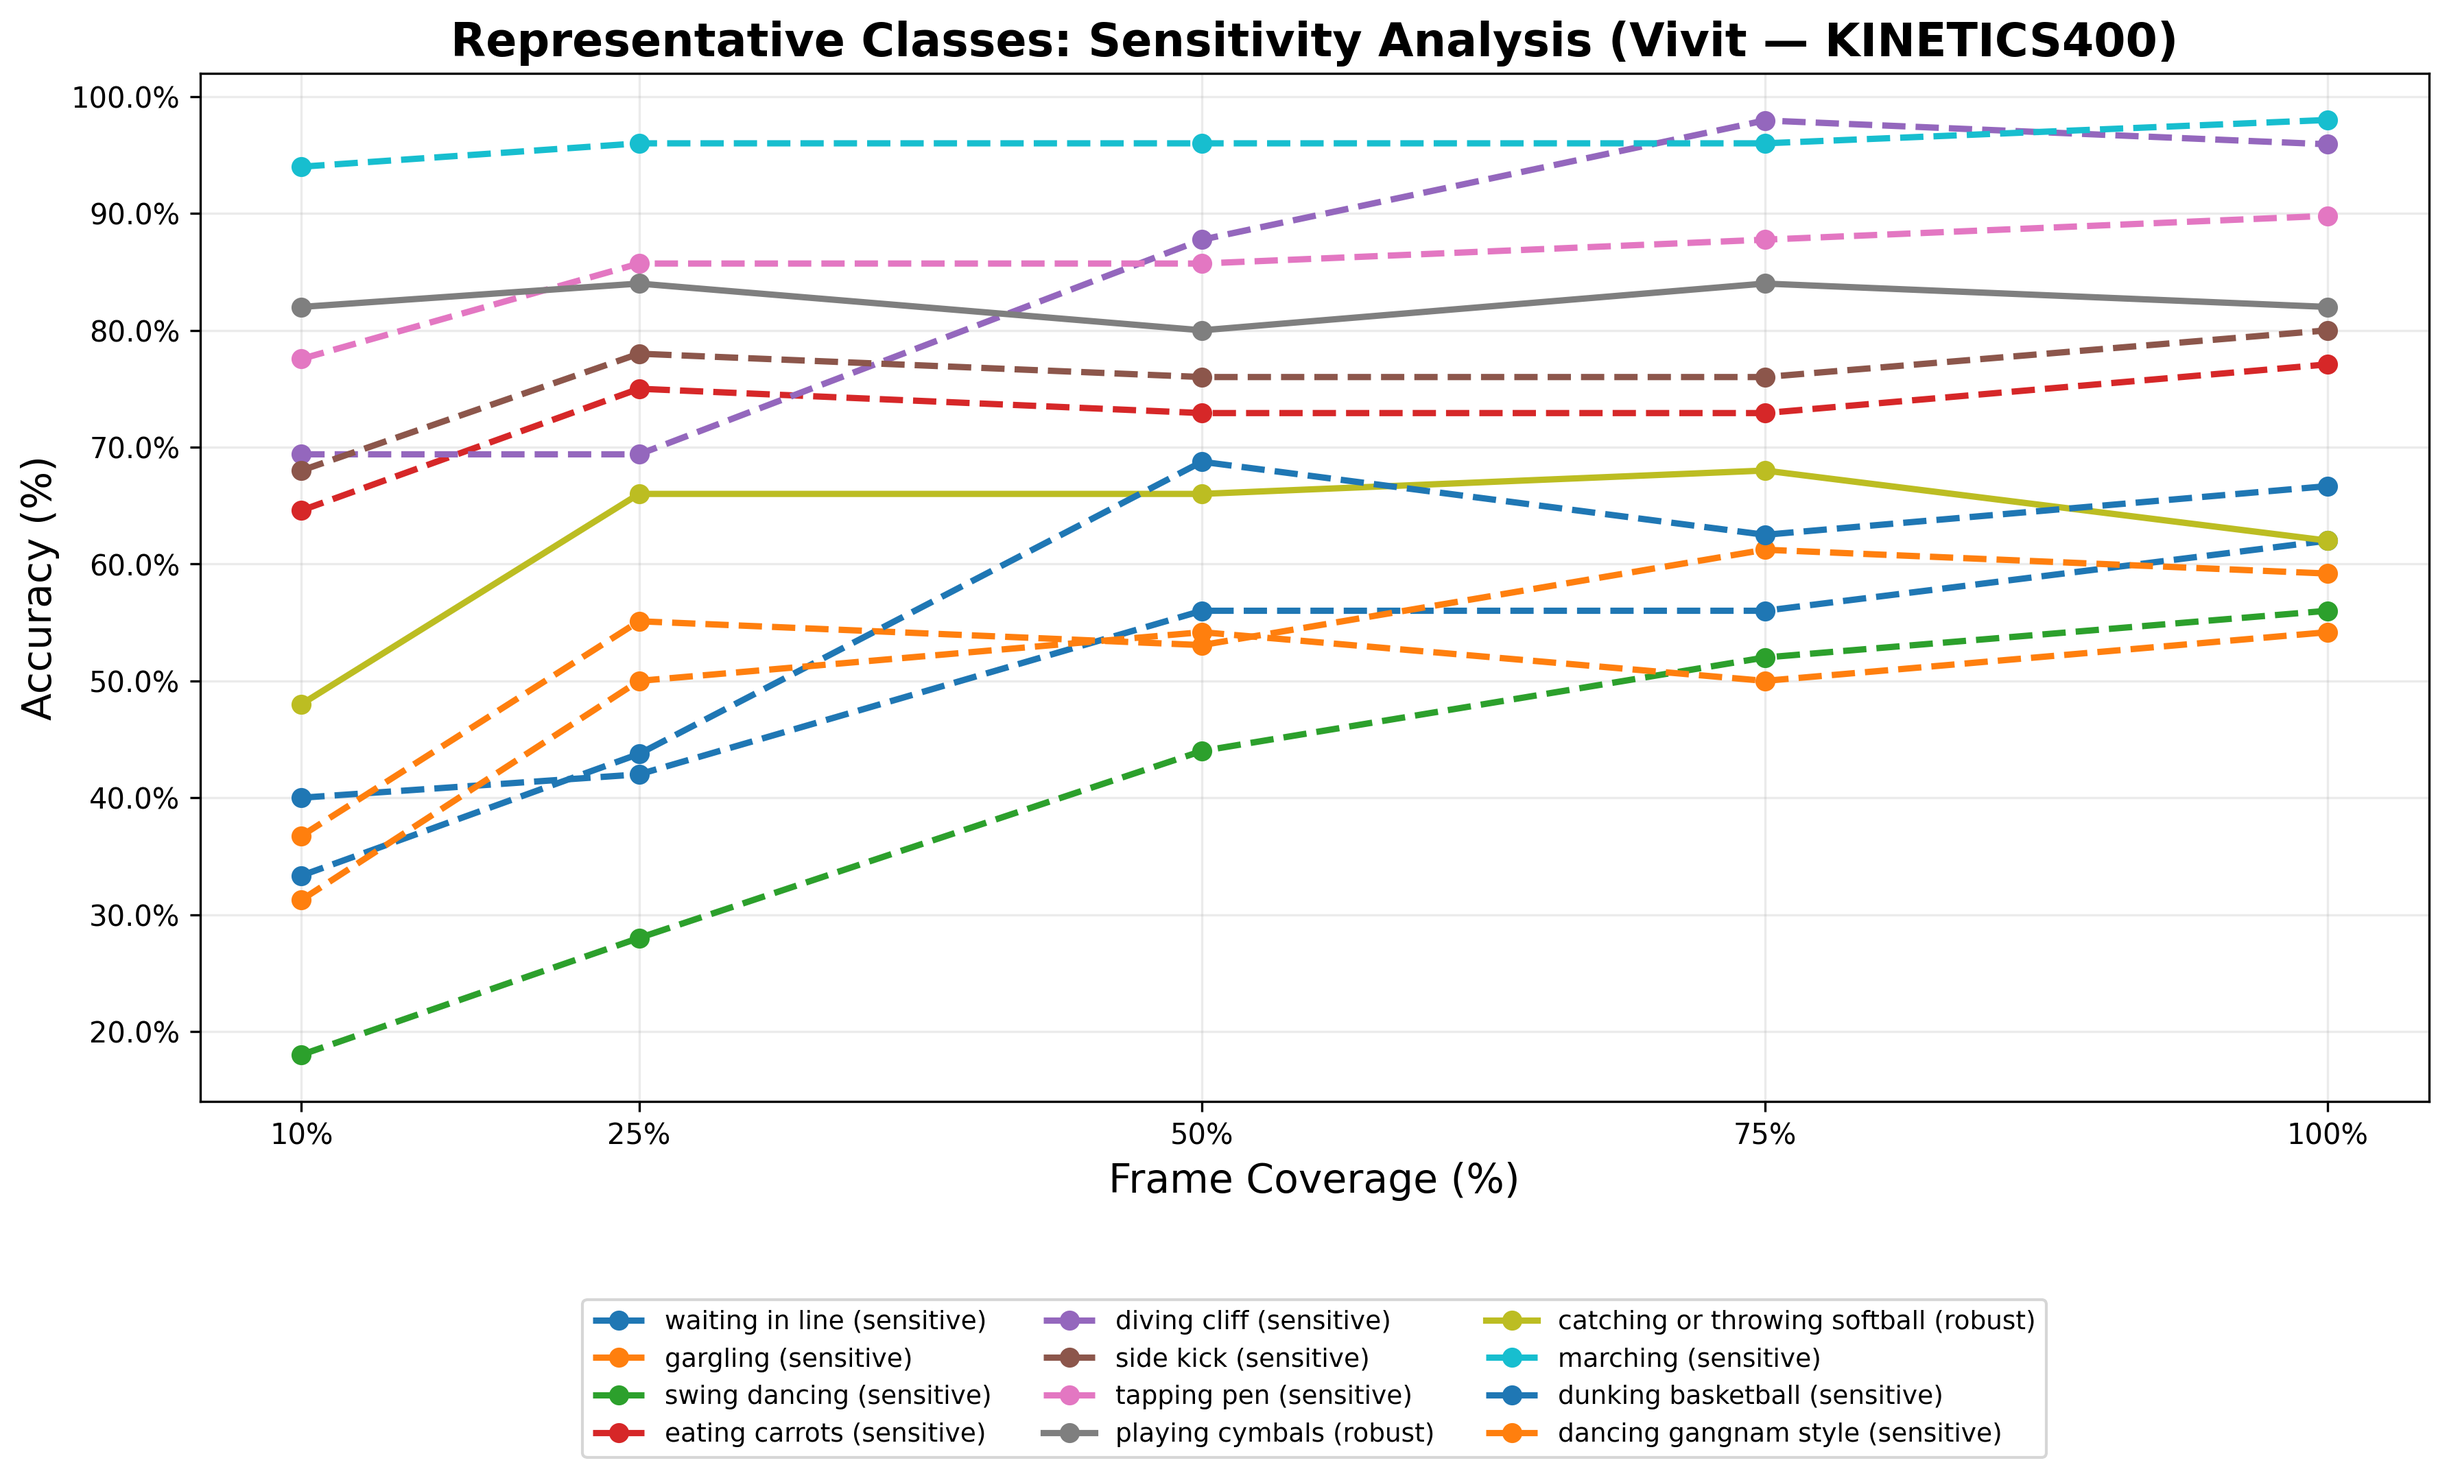
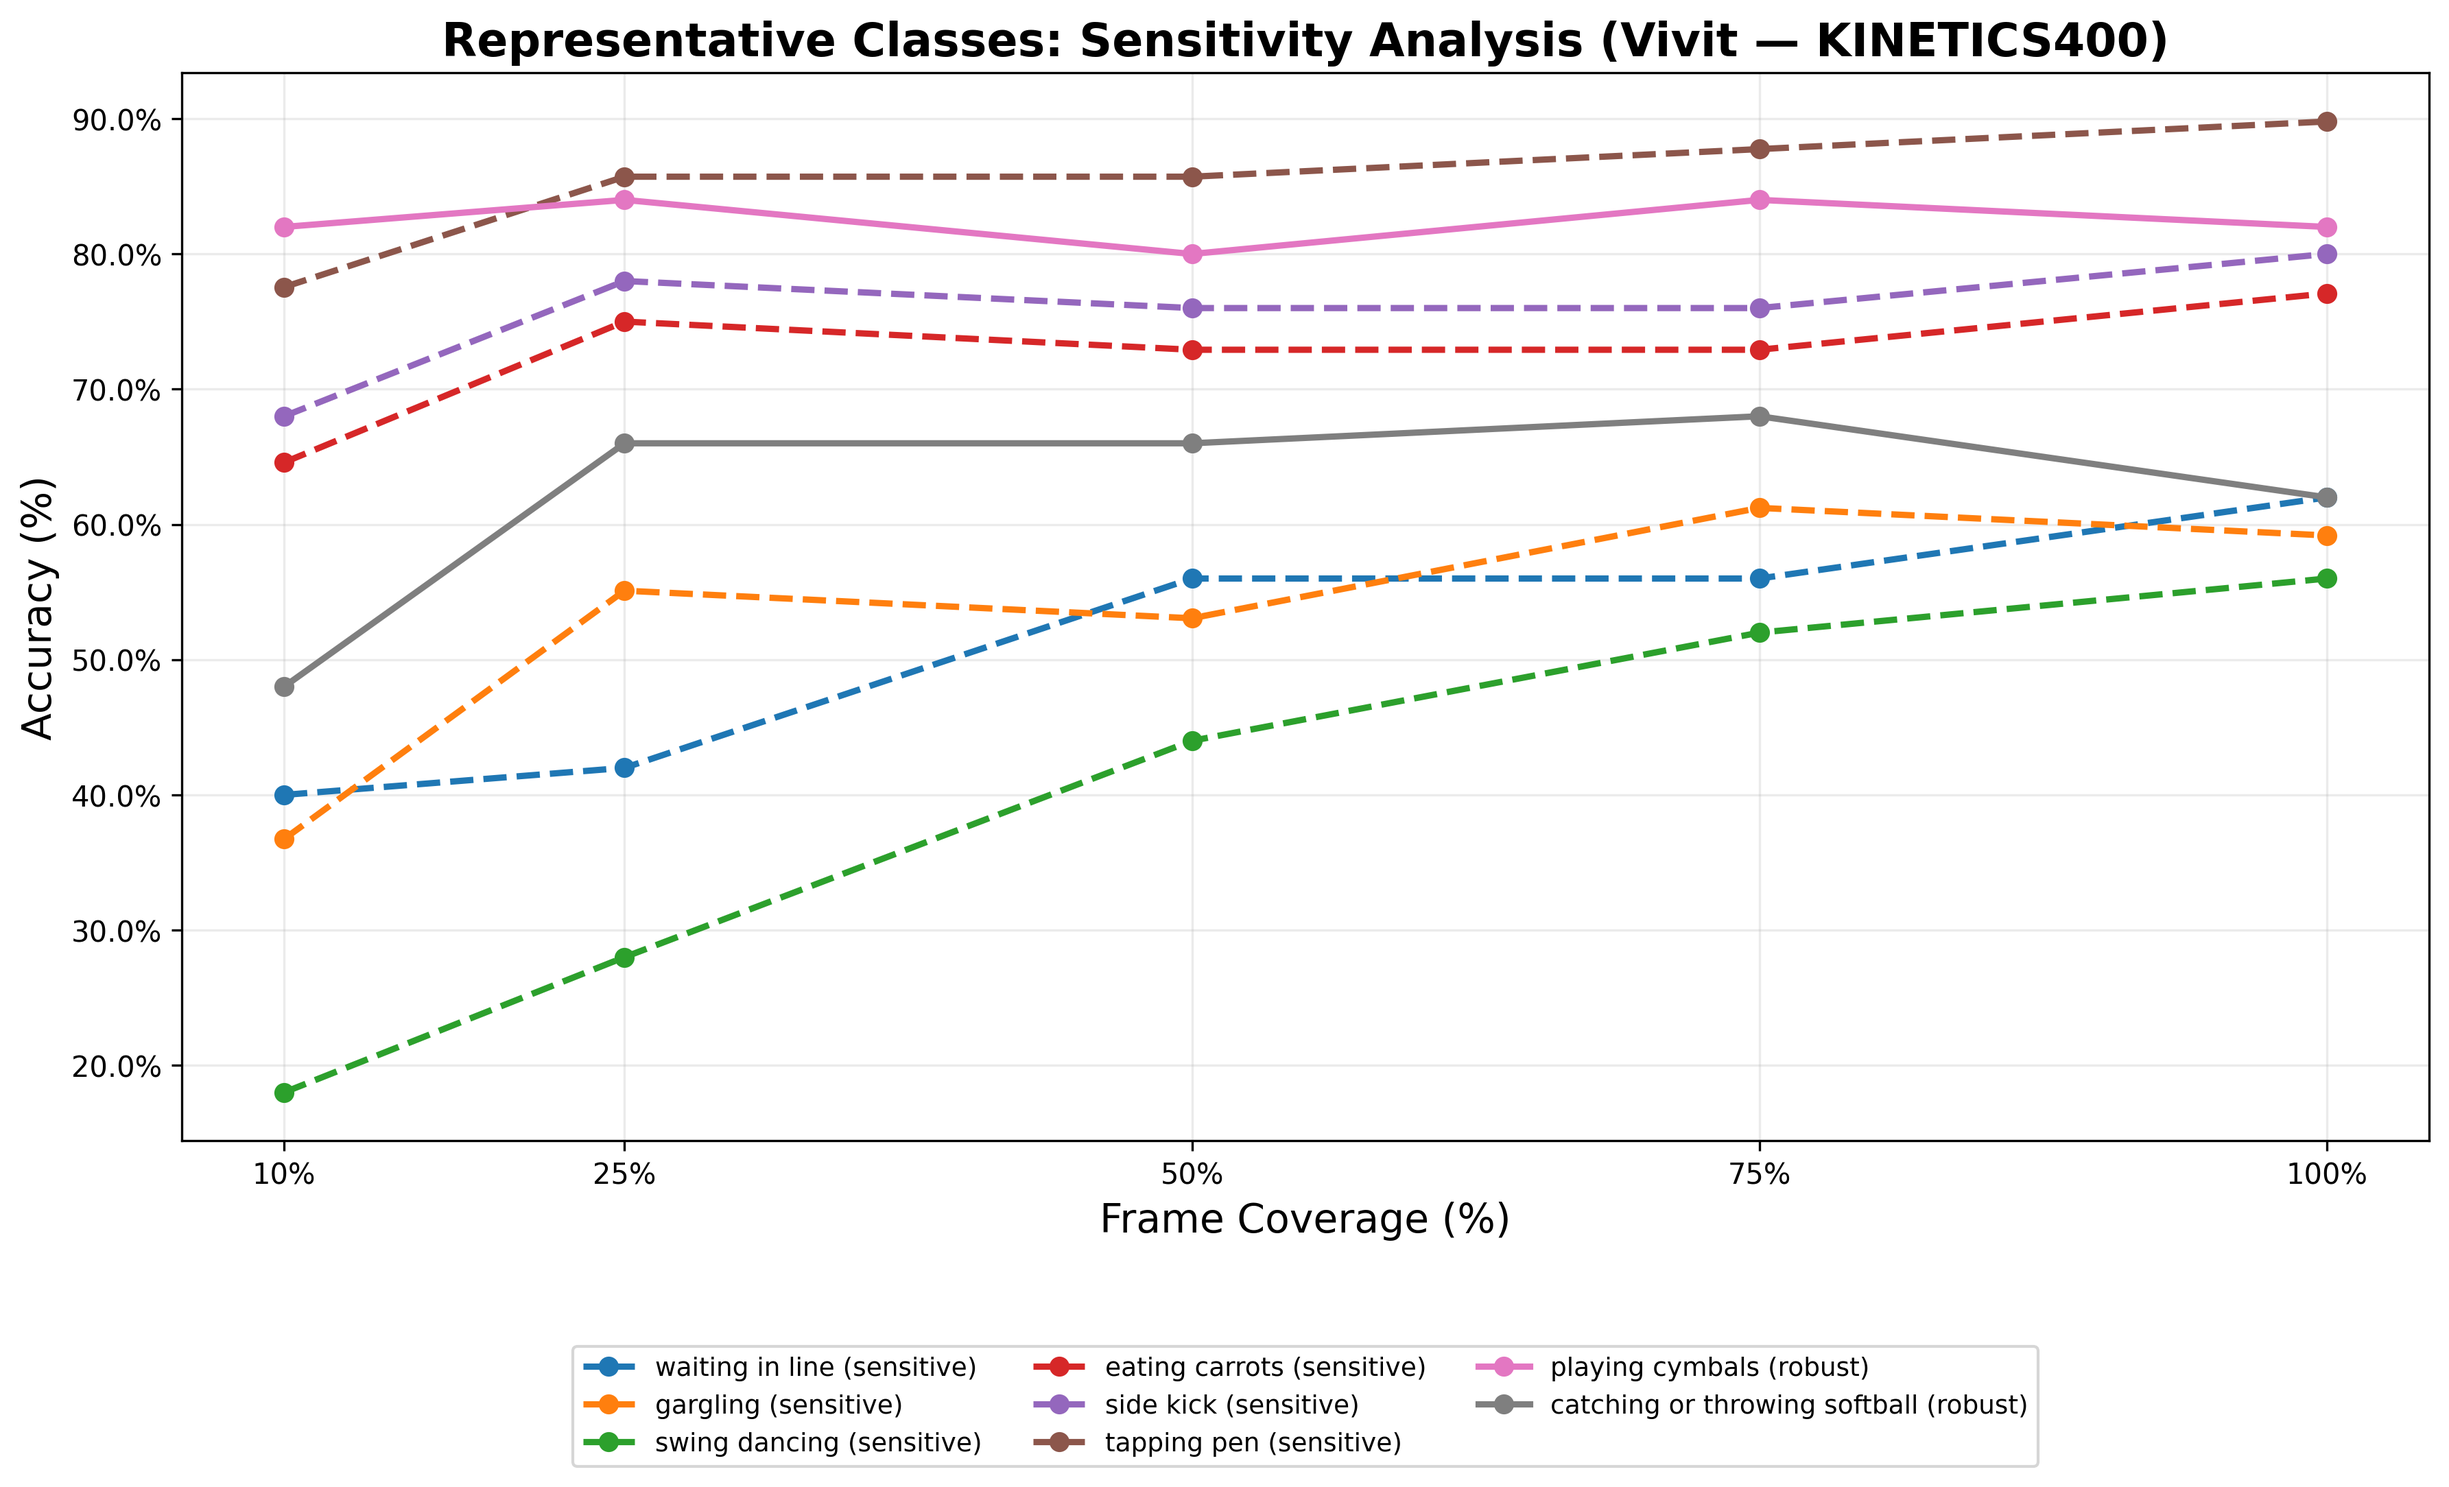
Plot: enforce 4 sensitive + 4 robust per dataset; regenerate per-model representative plots (6 total)

diff --git a/scripts/plotting/generate_analysis_plots.py b/scripts/plotting/generate_analysis_plots.py
@@ -121,13 +121,13 @@ def generate_distribution_plot(per_class_csv, output_dir, model_name, stride=8):
     plt.close()
     print(f"✅ Saved: {output_path} and {output_path_hi}")
 
-def compute_shared_classes(models_dirs, n_sensitive=5, n_robust=5, max_total=12):
+def compute_shared_classes(models_dirs, n_sensitive=4, n_robust=4, max_total=8):
     """Compute a shared set of representative classes across multiple model per-class CSVs.
 
     For each model, we pick the top `n_sensitive` classes (largest 100→25 drop) and the top
     `n_robust` classes (smallest variance across coverages). Then we take the union across
-    models and limit to `max_total` classes to keep plots legible. This ensures all models
-    within the same dataset plot the same class set for direct comparison.
+    models and limit to `max_total` classes (4 sensitive + 4 robust) so each representative
+    plot displays exactly 8 classes for clear comparison across models within a dataset.
     """
     shared = []
     for mdir in models_dirs:
@@ -562,7 +562,7 @@ def main():
 
     # After all models for this dataset are processed, compute shared classes across models and regenerate representative plots to use the same classes
     models_dirs = [evaluations_dir / m for m in models]
-    shared = compute_shared_classes(models_dirs, n_sensitive=5, n_robust=5, max_total=12)
+    shared = compute_shared_classes(models_dirs, n_sensitive=4, n_robust=4, max_total=8)
     for model in models:
         model_dir = evaluations_dir / model
         matches = list(model_dir.glob("*per_class*.csv"))
